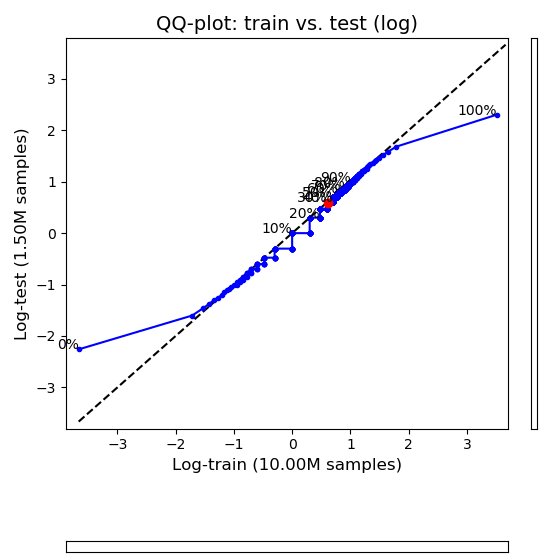
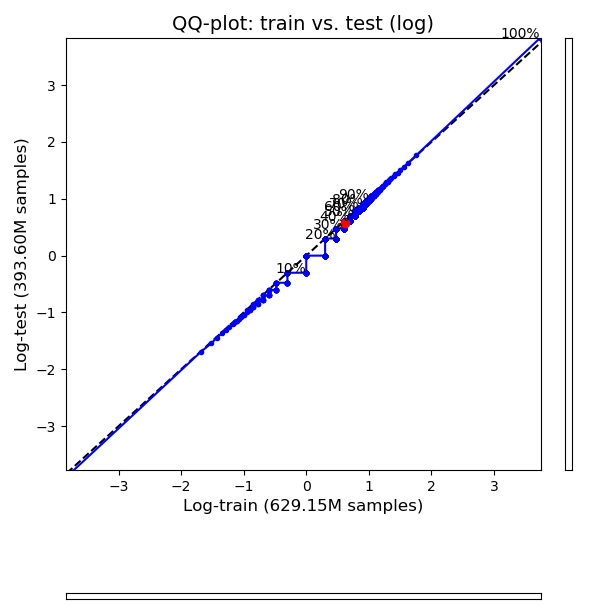
full-data distributions

Changed region(s): [[0.0, 0.0, 0.9173, 0.8561], [0.0917, 0.9478, 0.9173, 1.0], [0.9478, 0.0612, 0.9784, 0.795]]

diff --git a/data.py b/data.py
@@ -91,6 +91,7 @@ def plot_distributions(signals, ax=None, quantiles=1000, title='', logscale=Fals
                 color=utils.DEF_COLORS[i], linestyle='-', label=sig)
 
     ax.set_xlim((0,100))
+    ax.grid()
     ax.set_xlabel('Quantile [%]', fontsize=12)
     ax.set_ylabel('Log-signal [base 10]' if logscale else 'Signal', fontsize=12)
     ax.set_title(title, fontsize=14)
@@ -100,16 +101,26 @@ def plot_distributions(signals, ax=None, quantiles=1000, title='', logscale=Fals
 
 
 if __name__ == '__main__':
-    # load data
-    N = 10e6 # 10e6, 1e9
+    # configuration
+    demo = True
+    signals = False
+    distributions = False
+
+    # initialization
+    if demo:
+        N, n_files, file0 = 1e6, 10, int(np.random.uniform(0,1000))
+    else:
+        N, n_files, file0 = None, 10000, 0
     t0 = time()
+
+    # load data
     df = load_data(nrows=N)
     print(f'Train data loaded ({time()-t0:.0f} [s])')
-    dt = load_multi_files(i0=int(np.random.uniform(0,1000)))
+    dt = load_multi_files(n_files=n_files, i0=file0)
     print(f'Test data loaded ({time()-t0:.0f} [s])')
 
     # plot signals
-    if False:
+    if signals:
         plot_data(df.head(int(10e6)), ax='interactive', title='Beginning of train')
         plot_data(df.iloc[[1000*i for i in range(int(min(1e5,len(df)/1e3)))],:],
                   ax='interactive', title='Beginning of train with skips (1:1000)')
@@ -118,18 +129,19 @@ if __name__ == '__main__':
                   title='Random segment in train')
         plot_data(dt, cols='signal', split_col='segment', ax='interactive',
                   title='Random adjacent segments in test')
-    print(f'Signals plotted ({time()-t0:.0f} [s])')
+        print(f'Signals plotted ({time()-t0:.0f} [s])')
 
     # plot distributions
-    # plot_distributions({'train':df.signal,'test':dt.signal}, ax='interactive',
-    #                    title='Sample of train vs. test signals')
-    plot_distributions({'train':df.signal,'test':dt.signal}, ax='interactive',
-                       title='Sample of train vs. test signals (log)', logscale=True)
-    # utils.qqplot(df.signal, dt.signal, ('train','test'), ax='interactive',
-    #        title='QQ-plot: train vs. test')
-    # utils.qqplot(df.signal, dt.signal, ('train','test'), ax='interactive',
-    #        title='QQ-plot: train vs. test (log)', logscale=True)
-    print(f'Distributions plotted ({time()-t0:.0f} [s])')
+    if distributions:
+        plot_distributions({'train':df.signal,'test':dt.signal}, ax='interactive',
+                           title='Sample of train vs. test signals')
+        plot_distributions({'train':df.signal,'test':dt.signal}, ax='interactive',
+                           title='Sample of train vs. test signals (log)', logscale=True)
+        utils.qqplot(df.signal, dt.signal, ('train','test'), ax='interactive',
+               title='QQ-plot: train vs. test')
+        utils.qqplot(df.signal, dt.signal, ('train','test'), ax='interactive',
+               title='QQ-plot: train vs. test (log)', logscale=True)
+        print(f'Distributions plotted ({time()-t0:.0f} [s])')
 
     # plot FFTs
     # TODO

diff --git a/utils.py b/utils.py
@@ -252,6 +252,7 @@ def qqplot(x1, x2, names, ax=None, quantiles=1000, title='', logscale=False):
     for i in range(11):
         ax.annotate(f'{10*i:.0f}%', (dist1[2+i], dist2[2+i]),
                     horizontalalignment='right')
+    ax.grid()
     ax.set_xlabel(('Log-' if logscale else '')+names[0]+
                   f' ({counter_to_str(len(x1)):s} samples)', fontsize=12)
     ax.set_ylabel(('Log-' if logscale else '')+names[1]+
